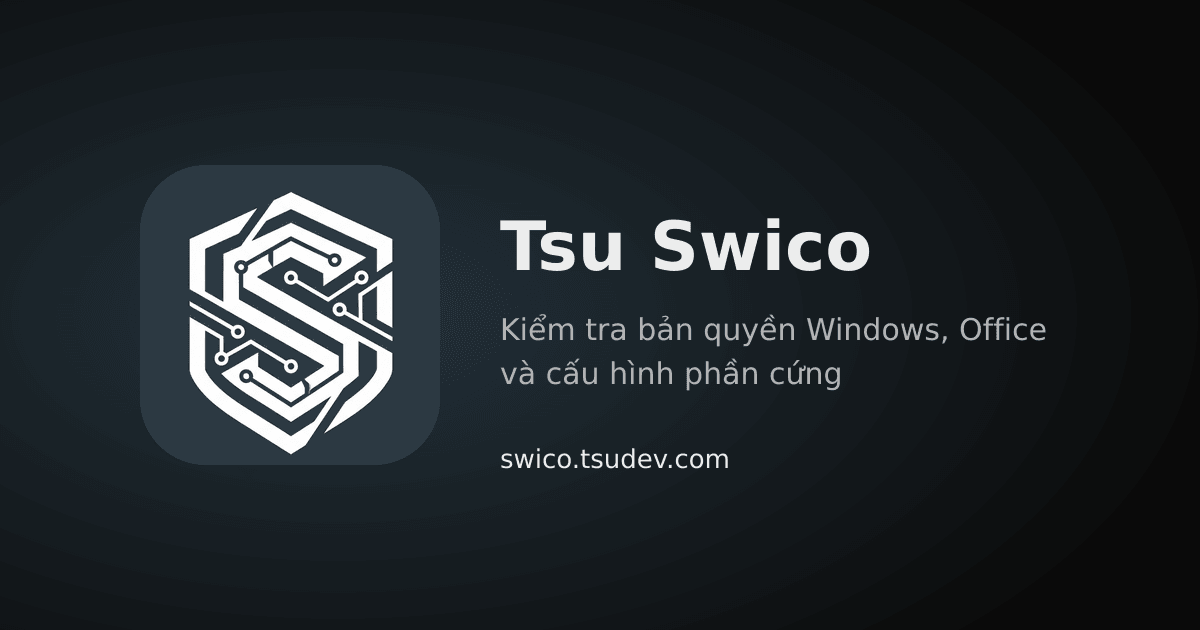
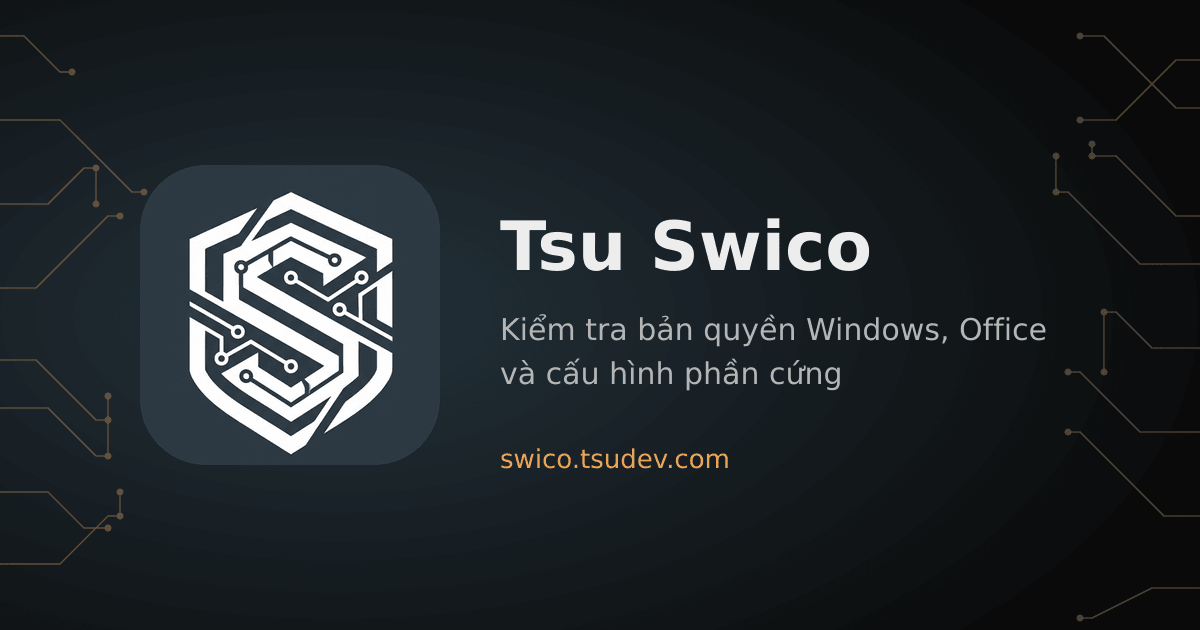
feat(ui): bố cục cong-cu + hoạ tiết mach-in (#67)
* feat(ui): bố cục cong-cu + hoạ tiết mach-in

- Trang chủ: màn đầu là vùng thao tác căn giữa (tải bộ cài bản mới nhất kèm tên tệp/dung lượng/ngày, lệnh
  winget + Scoop sinh lúc build có nút Chép); giới thiệu + ảnh báo cáo xuống dưới. Header, chân trang, bộ chọn
  giao diện giữ nguyên (ECOSYSTEM_IDENTITY mục 4).
- Hoạ tiết mach-in tĩnh (src/lib/mach-in.mjs, tất định): SVG nội tuyến ở hero tô var(--accent), chỉ ở hai dải mép;
  og-image.png sinh lại cùng hoạ tiết, màu lấy bảng tối products/swico.json (bỏ ogAccent khỏi brand.json).
- check-dist cho phép chep.js ở trang chủ. Ảnh sau: docs/anh-chup/ban-sac-v5/sau2-*.jpg.
  Build + check-dist 0 lỗi, axe 16 trang x 2 chế độ 0 lỗi, brand-assets --check khớp.

* fix(ui): vùng thao tác cong-cu không tràn khung điện thoại (cột lưới minmax(0, 1fr))

---------

diff --git a/website/src/styles/site.css b/website/src/styles/site.css
@@ -101,6 +101,36 @@ pre {
 .minh-hoa img { display: block; width: 100%; border-radius: var(--radius-lg); }
 .minh-hoa figcaption { margin-top: 0.5rem; color: var(--text-muted); font-size: 0.88rem; text-align: center; }
 
+/* Bố cục chữ ký `cong-cu` (DESIGN_SYSTEM mục 1.2.2): vùng thao tác chính căn giữa ngay màn đầu */
+.mo-dau--cong-cu { position: relative; overflow: hidden; isolation: isolate; padding-bottom: 2.5rem; }
+.mo-dau--cong-cu .mo-dau__luoi { gap: 2rem; grid-template-columns: minmax(0, 1fr); }
+.mo-dau--cong-cu .mo-dau__luoi > * { min-width: 0; max-width: 100%; }
+.mo-dau--cong-cu .mo-dau__phu { margin-bottom: 0; }
+/* Hoạ tiết `mach-in` (mục 1.2.4): TĨNH, nét accent mảnh và mờ ở hai dải mép, phủ < 15%, nằm dưới chữ */
+.mach-in { position: absolute; inset: 0; width: 100%; height: 100%; z-index: -1; pointer-events: none; opacity: 0.32; }
+.mach-in path { stroke: var(--accent); }
+.mach-in circle { fill: var(--accent); }
+.cong-cu {
+  width: 100%; max-width: 40rem; text-align: left;
+  background: var(--bg-surface); border: 1px solid var(--border-strong); border-radius: var(--radius-lg);
+  box-shadow: 0 0 0 4px var(--glow);
+}
+.cong-cu__chinh { padding: 1.5rem 1.5rem 1.25rem; text-align: center; }
+.nut--lon { min-height: 3rem; padding: 0.8rem 1.6rem; font-size: 1.05rem; font-weight: 600; width: 100%; max-width: 22rem; }
+.cong-cu__tep { margin: 0.75rem 0 0; font-size: 0.88rem; color: var(--text-secondary); overflow-wrap: anywhere; }
+.cong-cu__phu { margin: 0.35rem 0 0; font-size: 0.88rem; }
+.cong-cu__lenh { border-top: 1px solid var(--border); padding: 1rem 1.5rem 1.25rem; }
+.cong-cu__lenh .cai-lenh__kenh { margin: 0.6rem 0 0; }
+.cong-cu__lenh .cai-lenh__ten { font-size: 0.9rem; }
+.cong-cu__lenh pre { padding: 0.6rem 0.8rem; font-size: 0.85rem; background: var(--bg-subtle); }
+.cong-cu__nhan { margin: 0; font-family: var(--font-mono); font-size: 0.75rem; letter-spacing: 0.08em; text-transform: uppercase; color: var(--text-muted); }
+.muc--gioi-thieu { display: grid; grid-template-columns: minmax(0, 2fr) minmax(0, 3fr); gap: 2.5rem; align-items: center; }
+.muc--gioi-thieu .mo-dau__nut { justify-content: flex-start; }
+@media (max-width: 860px) {
+  .muc--gioi-thieu { grid-template-columns: 1fr; gap: 1.5rem; }
+  .cong-cu__chinh, .cong-cu__lenh { padding-left: 1rem; padding-right: 1rem; }
+}
+
 /* Các khối: ranh giới là khoảng trống, không dải nền */
 .muc { padding: 3.5rem 0; }
 .muc h2 { font-size: 1.75rem; margin: 0 0 0.5rem; letter-spacing: -0.015em; }

diff --git a/website/public/chep.js b/website/public/chep.js
@@ -1,4 +1,4 @@
-// Nút "Chép" của khối Cài bằng lệnh (/tai-ve/). Tệp tĩnh cùng nguồn (CSP script-src 'self'). Không có JavaScript thì
+// Nút "Chép" của khối Cài bằng lệnh (/tai-ve/ và vùng thao tác trang chủ). Tệp tĩnh cùng nguồn (CSP script-src 'self'). Không có JavaScript thì
 // nút vẫn ẩn và khối lệnh vẫn chọn/chép tay được.
 (function () {
   'use strict';

diff --git a/CHANGELOG.md b/CHANGELOG.md
@@ -8,6 +8,11 @@
 
 ### Thay đổi
 
+- **Trang chủ swico.tsudev.com theo bố cục `cong-cu` + hoạ tiết `mach-in`** (bộ quy ước v5.0.0, `DESIGN_SYSTEM.md` mục
+  1.2.2/1.2.4): màn đầu là vùng thao tác căn giữa - nút tải bộ cài bản mới nhất (tên tệp, dung lượng, ngày phát hành)
+  và lệnh winget/Scoop có nút Chép; giới thiệu + ảnh báo cáo nằm dưới. Nền hero có đường mạch in tĩnh tô bằng
+  `accent` ở hai dải mép; `og-image.png` sinh lại cùng hoạ tiết (cùng bộ sinh `website/src/lib/mach-in.mjs`).
+
 - **Bản sắc riêng của Tsu Swico** (bộ quy ước v5.0.0, `DESIGN_SYSTEM.md` mục 1.2, phiếu `20261121-STD50`): màu nhấn
   vàng hổ phách (hue 68: `#975D01` Sáng / `#E49324` Tối) thay xanh dùng chung của hệ, bo góc `sac` (2/3/4px, nút 3px),
   tiêu đề Space Grotesk. Báo cáo HTML/`.xlsx` gộp đè `.standards/tokens/products/swico.json` lên lớp nền lúc build;
